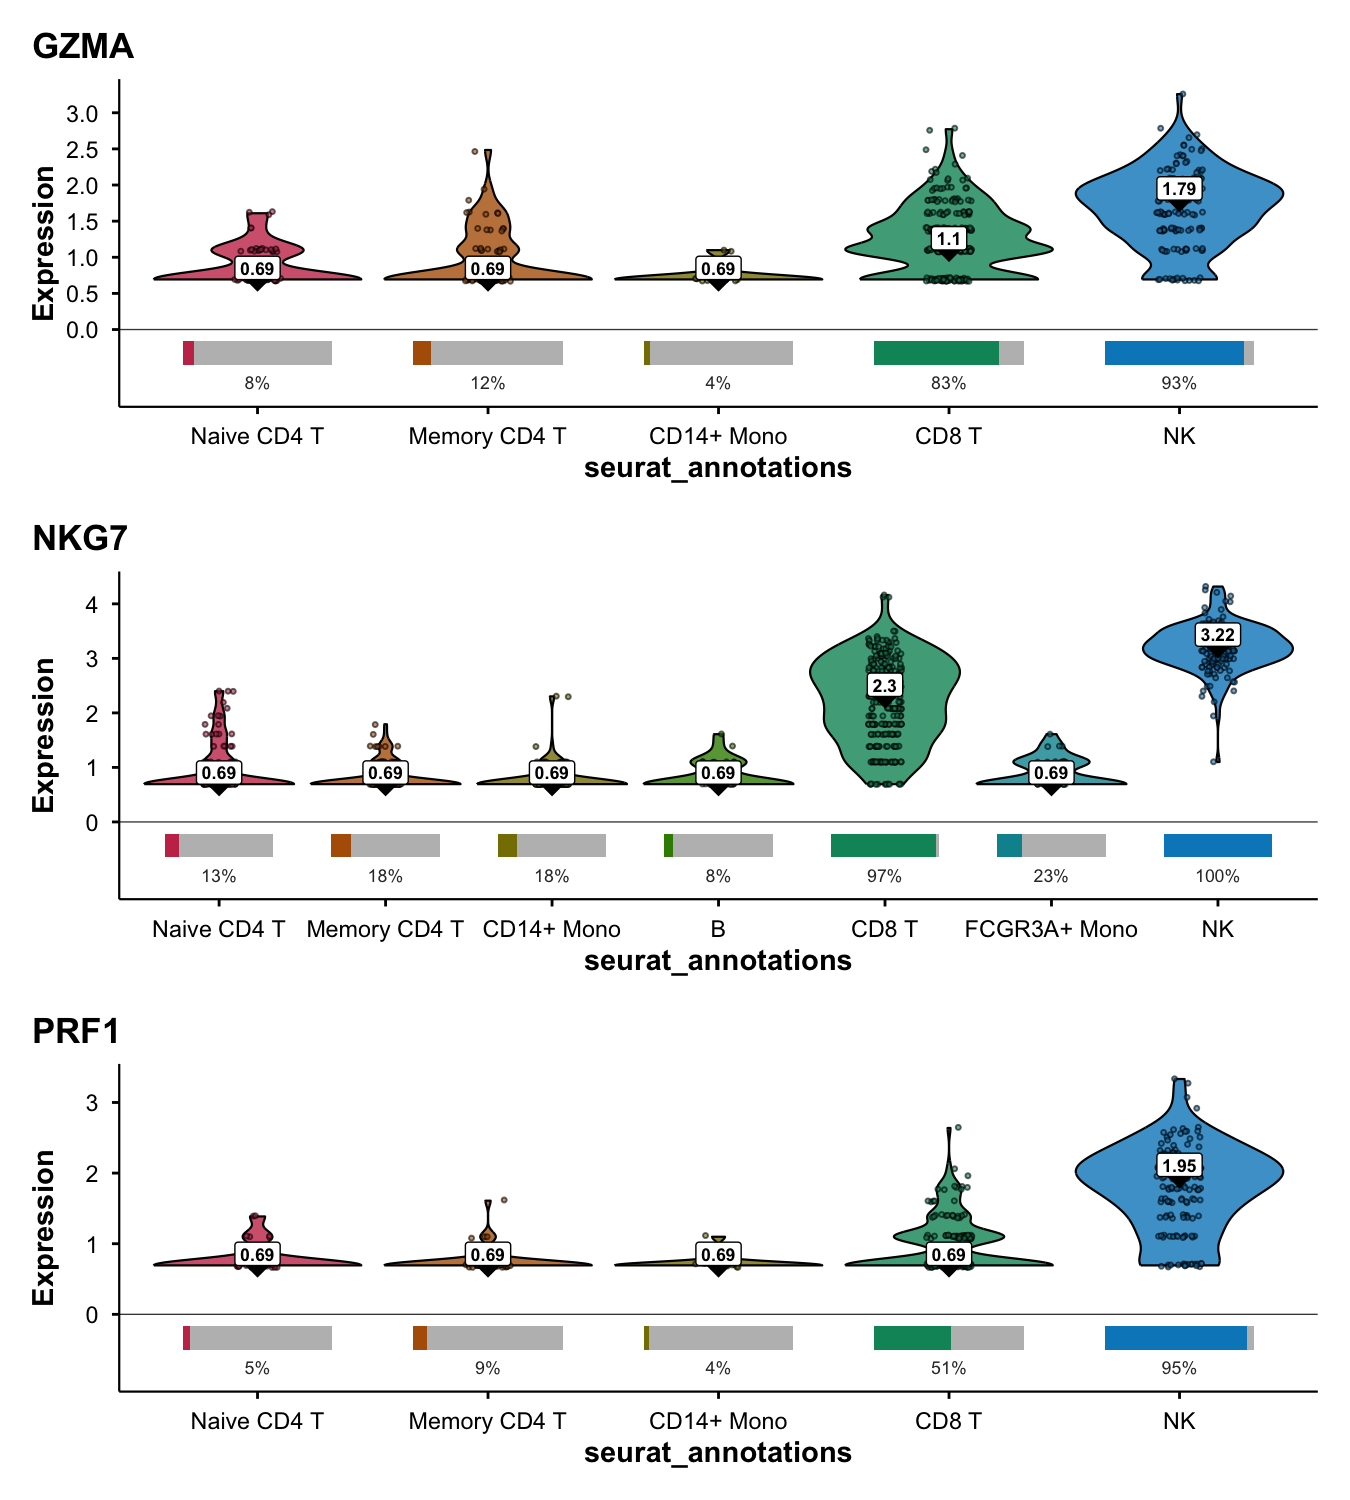
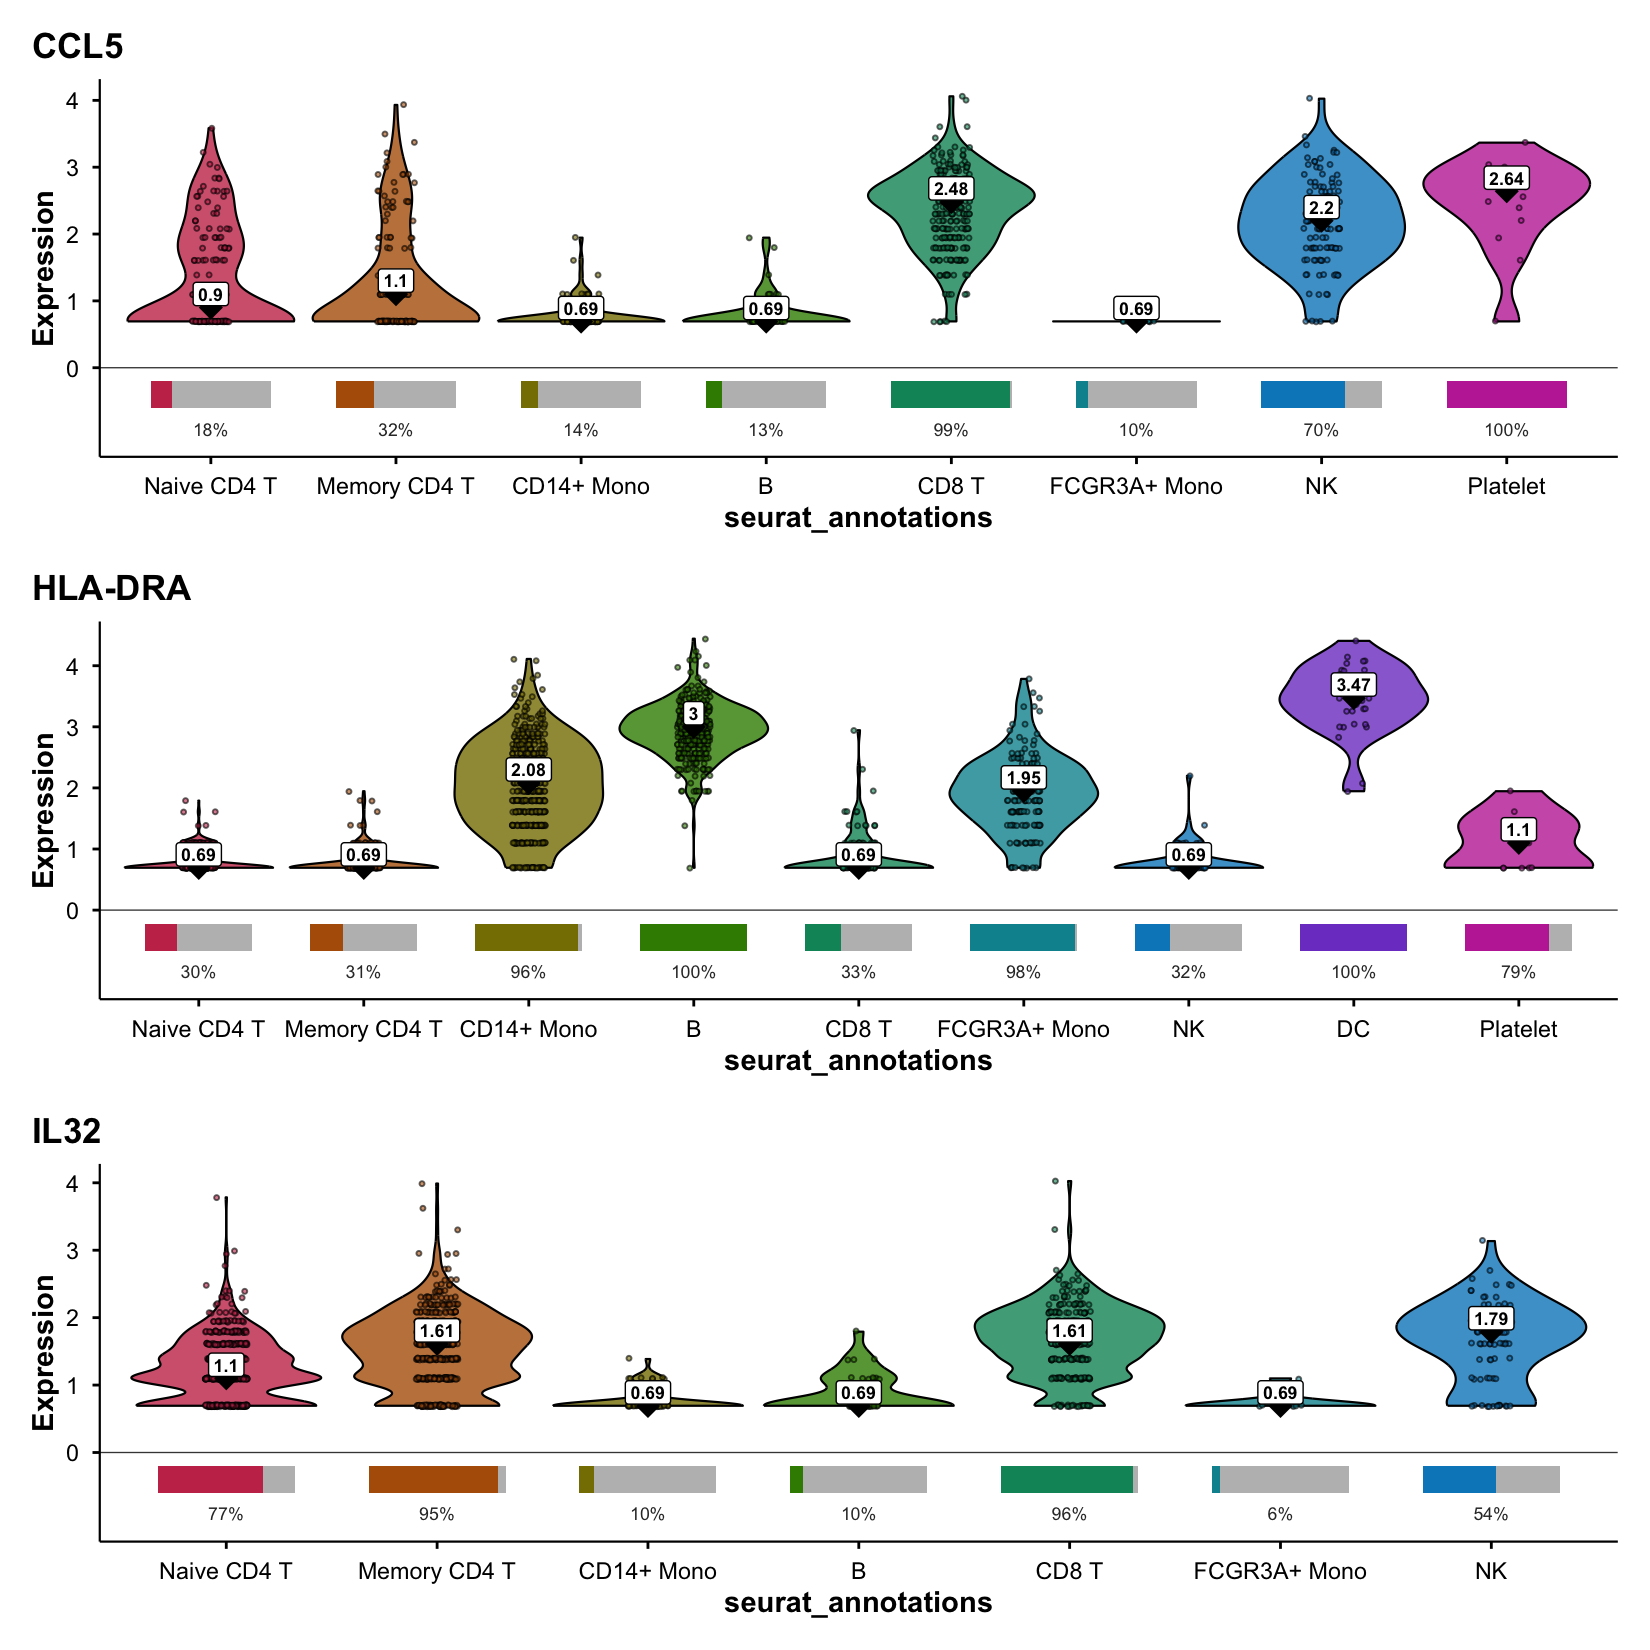
docs: use genes with distinct distributions in violin and boil plot examples
The statistical violin example used CD3D across three T-cell groups, a
pan-T-cell gene whose per-group medians are all log1p(2) = 1.10, so the
plot looked uninformative even though the statistics were correct.
Switch to S100A4 (naive-to-memory marker; medians 0.69 / 1.79 / 1.95).

The boil plot examples used GZMA, NKG7 and PRF1, where most sparse
groups have a non-zero median of log1p(1) = 0.69. Switch to CCL5,
HLA-DRA and IL32, whose non-zero medians span 0.69 to 3.47 across cell
types, and explain the 0.69 value in the text. Same changes in the
visualisation article; its single-gene boil example now uses CCL5 and
the min.nonzero example uses CCL5 at 100.

All medians and detection percentages were verified against independent
FetchData() computations before choosing the new genes.

diff --git a/README.md b/README.md
@@ -95,10 +95,12 @@ do_UmapPlot(pbmc3k, split.by = "condition")
 
 `do_StatsViolinPlot()` wraps `ggstatsplot::ggbetweenstats()` with
 Seurat-aware data extraction, automatic colour generation, and a
-`group.levels` argument for comparing specific clusters:
+`group.levels` argument for comparing specific clusters. S100A4 marks
+the transition from naive to memory T cells, so its expression steps up
+from Naive CD4 T to Memory CD4 T to CD8 T:
 
 ``` r
-do_StatsViolinPlot(pbmc3k, features = "CD3D",
+do_StatsViolinPlot(pbmc3k, features = "S100A4",
                    group.by = "seurat_annotations",
                    group.levels = c("Naive CD4 T", "Memory CD4 T", "CD8 T"))
 ```
@@ -115,14 +117,20 @@ against the baseline. `do_BoilPlot()` separates the two questions a
 violin blurs together: a detection bar below zero shows the percentage
 of cells expressing each gene, while the violin and points above zero
 show the distribution among expressing cells only. Groups with fewer
-than `min.nonzero` expressing cells are dropped from the panel:
+than `min.nonzero` expressing cells are dropped from the panel. CCL5,
+HLA-DRA and IL32 differ across cell types in both detection rate and
+expression level among expressing cells:
 
 ``` r
-do_BoilPlot(pbmc3k, features = c("GZMA", "NKG7", "PRF1"),
+do_BoilPlot(pbmc3k, features = c("CCL5", "HLA-DRA", "IL32"),
             group.by = "seurat_annotations")
 ```
 
 <img src="man/figures/README-boil-plot-1.png" alt="" width="100%" />
+
+A median of 0.69 (`log1p(1)`) means most expressing cells in that group
+carry a single corrected count, which is common for sparsely detected
+genes.
 
 The design follows the boil plot from
 [boilplot-r](https://github.com/laraj1/boilplot-r) by Lara Jerman,
